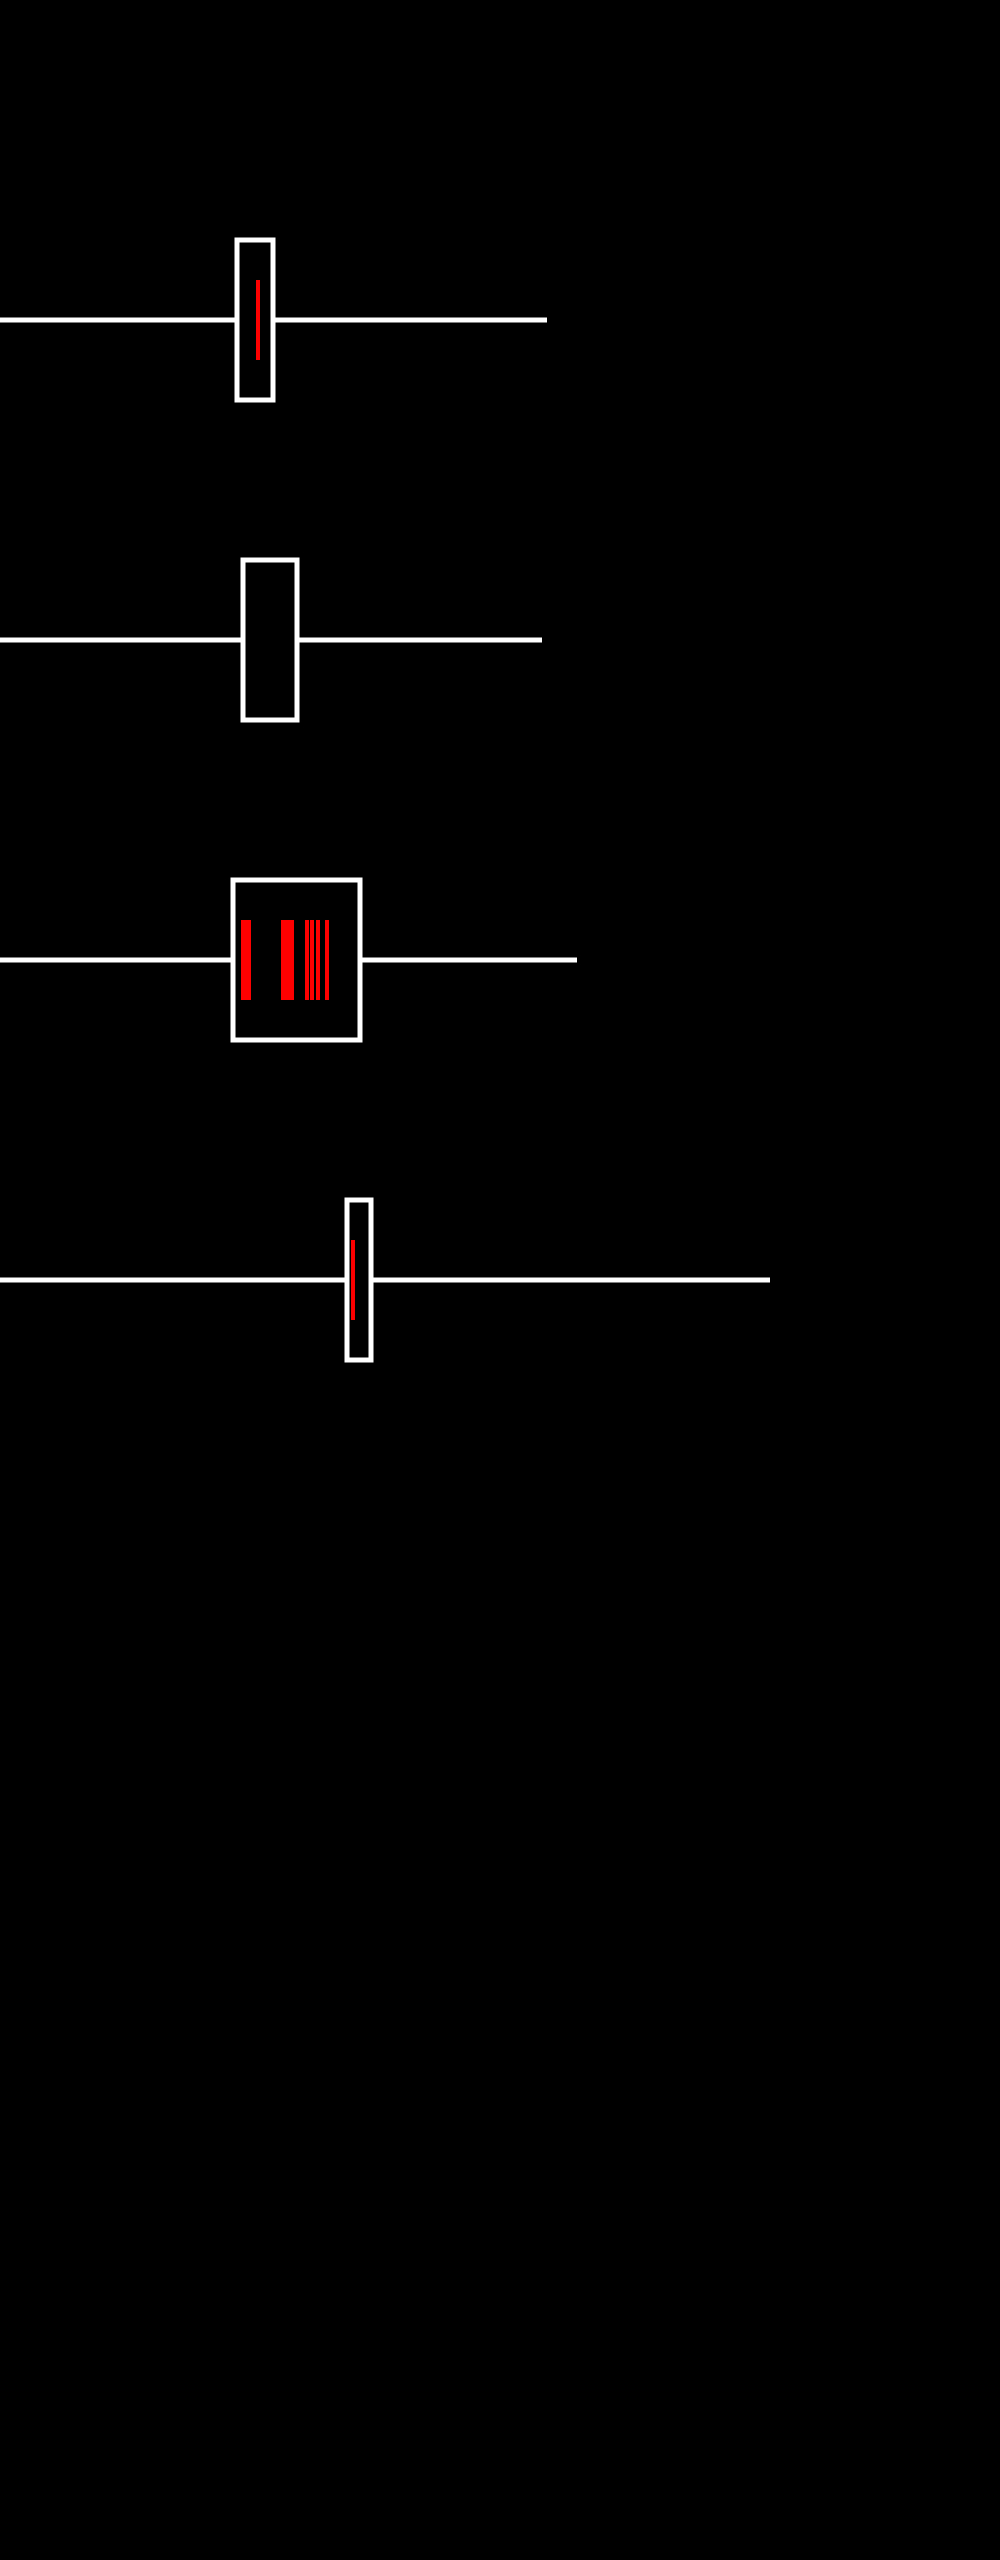
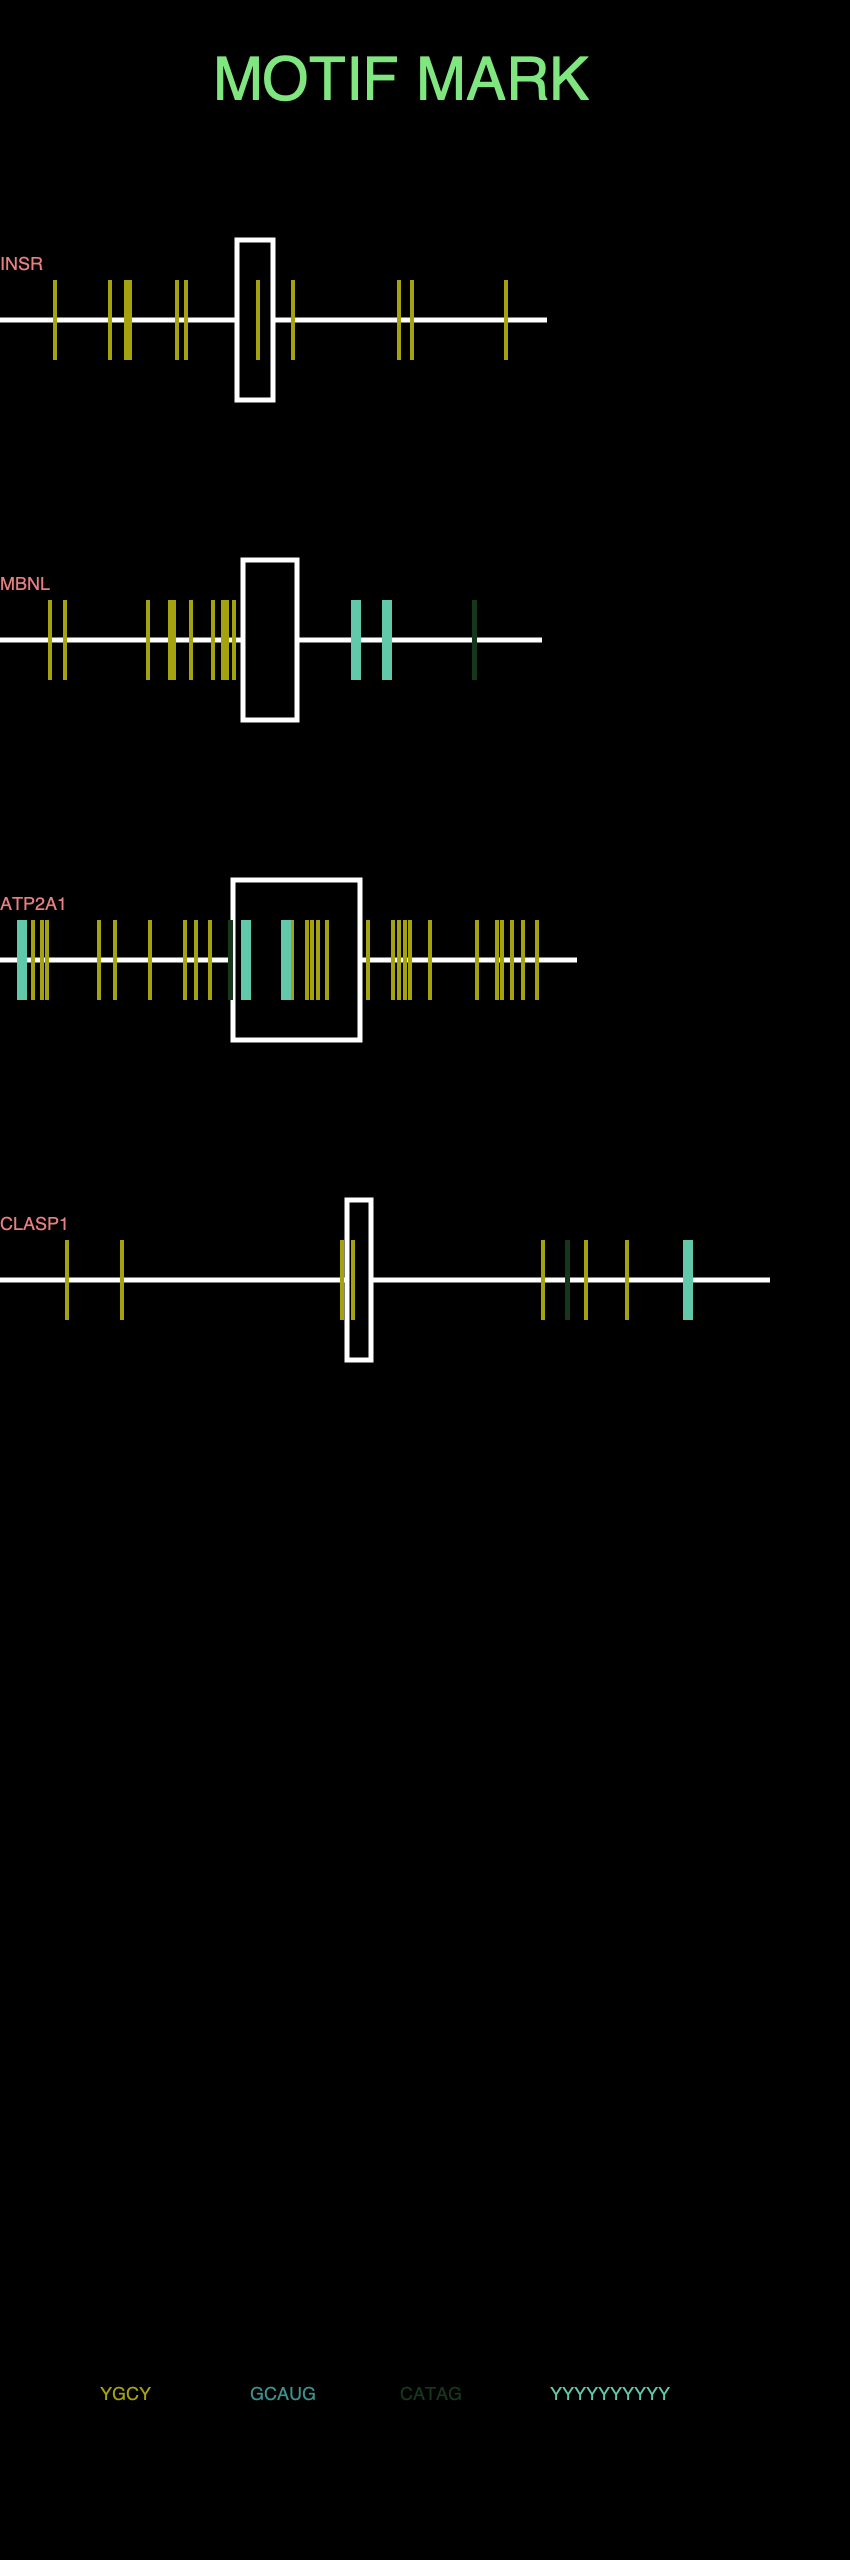
Motif Mark ready for submission, just needs clean up and finishing touches

diff --git a/motif-mark-oop.py b/motif-mark-oop.py
@@ -9,6 +9,7 @@ import cairo
 import re
 import argparse
 import math
+import random
 
 
 def oneline_fasta():
@@ -129,7 +130,9 @@ class Gene:
                     letter = "[" + letter + "]"
                 motifString += letter
             query = re.compile("{}".format(motifString))
-            found = query.finditer(self.sequence)
+            upperSequence = self.sequence
+            upperSequence = upperSequence.upper()
+            found = query.finditer(upperSequence)
             #found is an iterator of match objects so we need to iterate through them and we could save them to a dictionary
             for matchObject in found:
                 startStop = matchObject.span()
@@ -167,25 +170,23 @@ class Drawing:
     ###Methods
     def Draw(self):
         '''This method will draw our genes to a png'''
+        #Initialize a dictionary to get some color for the motifs
+        motifColor: dict = {}
         #Set up our canvas
         numGenes = len(geneList)
-        WIDTH = 1000
+        WIDTH = 850
         HEIGHT = numGenes * 640
         #Create a surface, 'FORMAT_ARGB32' allows for transparency
         surface = cairo.ImageSurface(cairo.FORMAT_RGB24, WIDTH, HEIGHT)
         #Create a context
-        ctx = cairo.Context(surface)
-        #Make a title
-        #titlesrc = c.LinearGradient(0, 10, 0, 40)
-        #titlesrc.set_extend(c.EXTEND_REPEAT)
-        #titlesrc.add_color_stop_rgb(0.0, 0.8, 0.8, 1)
-        #titlesrc.add_color_stop_rgb(0.5, 1, 0.8, 1) 
-        ctx.select_font_face("Times", cairo.FONT_WEIGHT_BOLD)
+        ctx = cairo.Context(surface) 
+        ctx.set_source_rgb(.5, .9, .5)
+        ctx.select_font_face("Purisa", cairo.FONT_WEIGHT_BOLD, cairo.FONT_SLANT_ITALIC)
         ctx.set_font_size(60)
-        ctx.move_to((WIDTH/2)-150, 70)
-        ctx.text_path("MOTIF MARKER")
-        #ctx.set_source(titlesrc)
-        ctx.fill()
+        ctx.move_to((WIDTH/4), (100))
+        ctx.show_text("MOTIF MARK")
+        #Make a legend
+
         #Initialize a counter
         geneNum = 0
         #Draw our genes 
@@ -206,21 +207,53 @@ class Drawing:
             ctx.line_to(geneLength, yCenter)
             ctx.set_line_width(5)
             ctx.stroke()
+            #Add a label to each of our genes
+            ctx.set_source_rgb(.9, .5, .5)
+            ctx.select_font_face("Purisa")
+            cairo.FONT_SLANT_ITALIC
+            cairo.FONT_WEIGHT_NORMAL
+            ctx.set_font_size(18)
+            ctx.move_to(0, (yCenter - 50))
+            ctx.show_text(gene.name)
             #Make some motif hashes
             motifDict = gene.motifDict
+            motifCount = 0 
             for motif in motifDict:
-                print(motif) #get the name of the motif
+                #If we don't already have a color for that motif
+                if motif not in motifColor:
+                    #Generate a seed to create a color
+                    seed = random.random()
+                    motifColor[motif] = seed
+                    #Add the motif to the legend
+                    random.seed(seed)
+                    r = random.random()
+                    g = random.random()
+                    b = random.random()
+                    ctx.set_source_rgb(r, g, b)
+                    ctx.select_font_face("Purisa")
+                    cairo.FONT_SLANT_ITALIC
+                    cairo.FONT_WEIGHT_NORMAL
+                    ctx.set_font_size(18)
+                    ctx.move_to(((motifCount*150)+100), (2400))
+                    ctx.show_text(str(motif))
+                    motifCount += 1
+                elif motif in motifColor:
+                    seed = motifColor[motif]
+                motifName = str(motif) #get the name of the motif
                 motifLength = len(str(motif))
                 print(motifLength) #get the length of the motif
                 #Access the list within the dictionary to see the start of the motif within the gene
                 for i in gene.motifDict[motif]:
                     print(i)
                     motifStart = i 
+                    random.seed(seed)
+                    r = random.random()
+                    g = random.random()
+                    b = random.random()
                     ctx.rectangle(motifStart, (yCenter - 40), motifLength, 80)
-                    #this is where i need to change the colors for my motifs with something like an if statement, on second thought, I should probably determine that earlier given I want to make a legend and else
-                    ctx.set_source_rgb(1, 0, 0)
+                    ctx.set_source_rgb(r, g, b)
                     ctx.set_line_width(1)
-                    ctx.fill()
+                    ctx.fill()            
             surface.write_to_png("MarkedMotif.png")
                 
 
